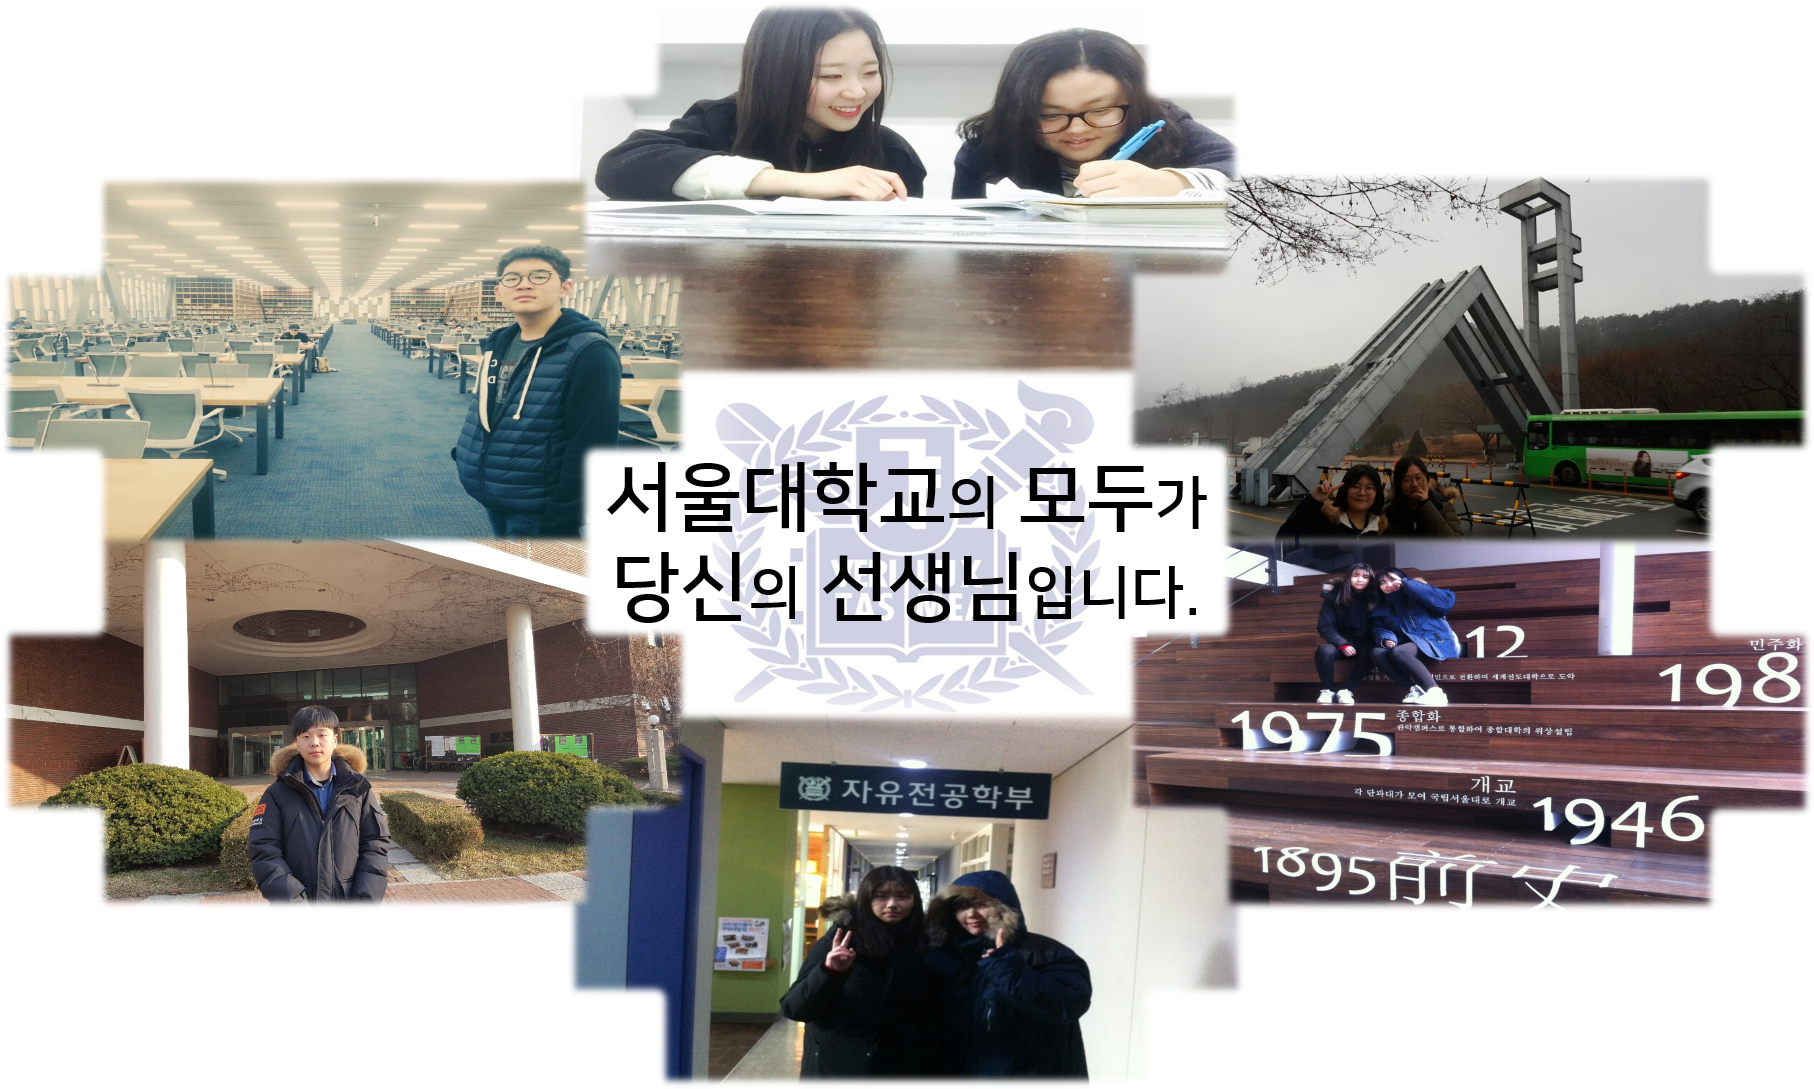
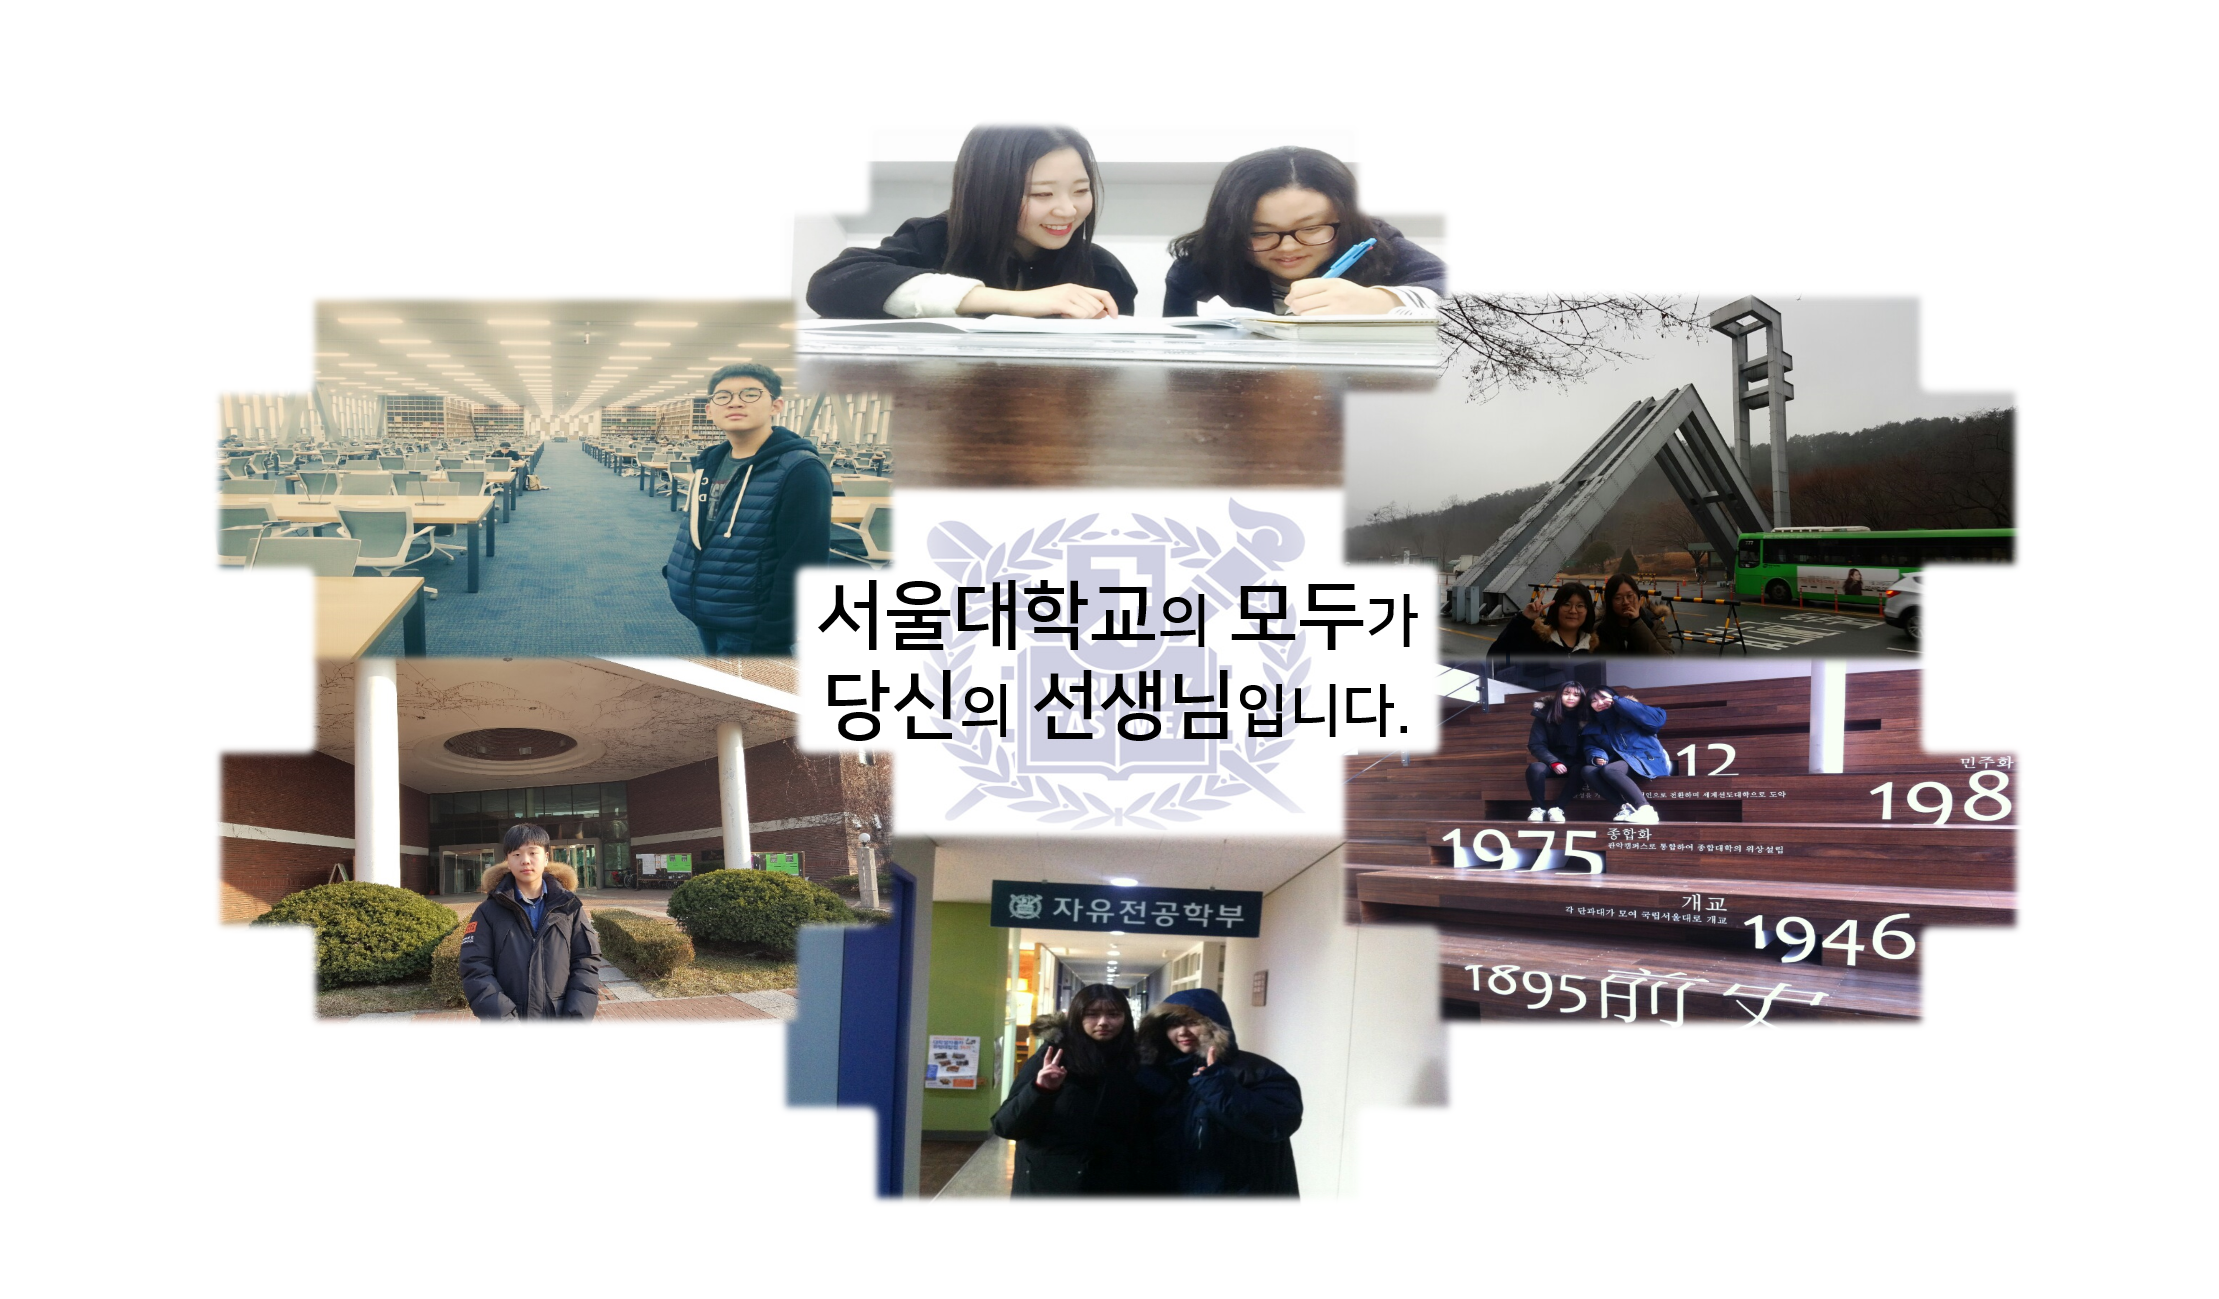
인덱스페이지 디자인 수정

diff --git a/src/mentoring/templates/mentoring/index.html b/src/mentoring/templates/mentoring/index.html
@@ -135,7 +135,7 @@
     <!-- Container (소개창 1 section) -->
 
     <div id="intro_section_1" class="container text-center">
-     <img src='{% static 'img/why_img.png' %}' style="width:100%;" />
+     <img src='{% static 'img/pros_img.png' %}' style="width:70%;" />
     </div>
     <!--
       <h2 style="margin: 0 0 50px;">서울대 학생들이 직접 개발한 맞춤형 프리미엄 멘토링</h2>
@@ -182,8 +182,8 @@
     <!-- /. 소개창 1 -->
 <hr style="background-color: black;margin : 20px 10% 20px 10%;padding: 5 0 0 5;">
     <!-- Container (소개창 2 section) -->
-    <div id="intro_section_2" class="container-fluid" style="background-color: ;">
-      <img src='{% static 'img/pros_img.png' %}' style="width:100%;" />
+    <div id="intro_section_2" class="container-fluid" style="width: 100% ;">
+      <img src='{% static 'img/why_img.png' %}' style="width:100%;" />
     </div>
     <!--
       <div class="row">
